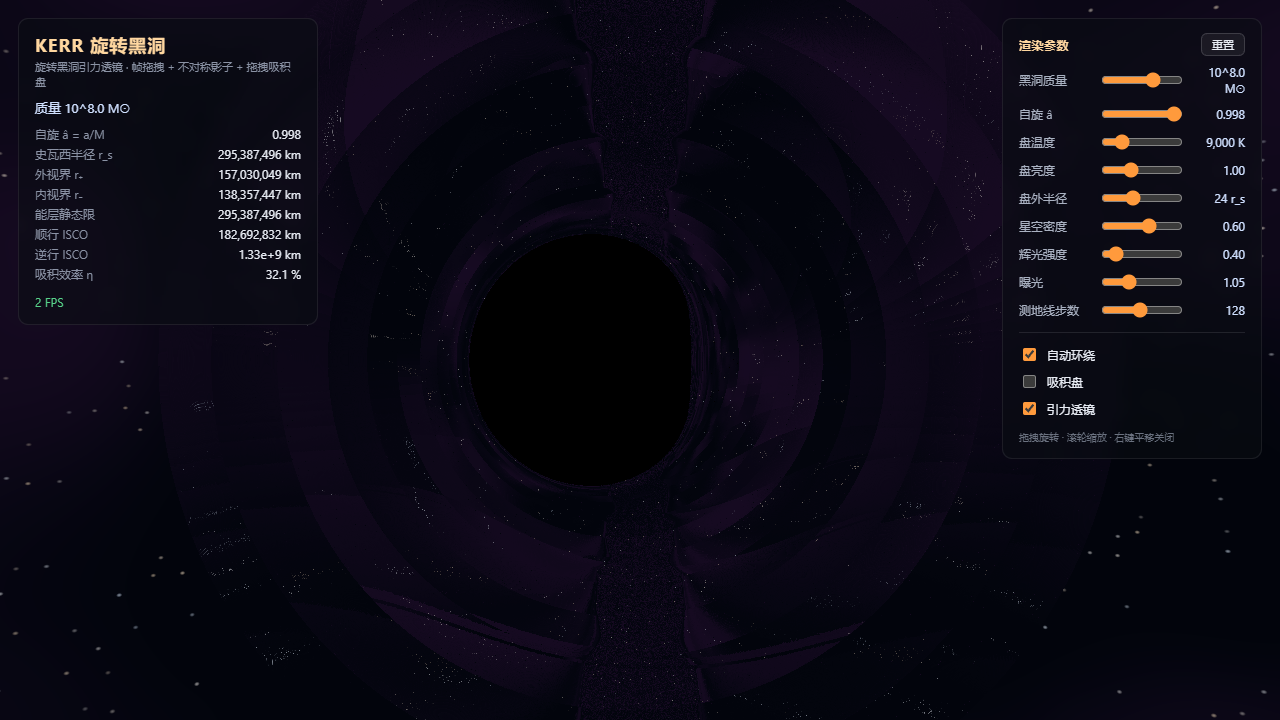
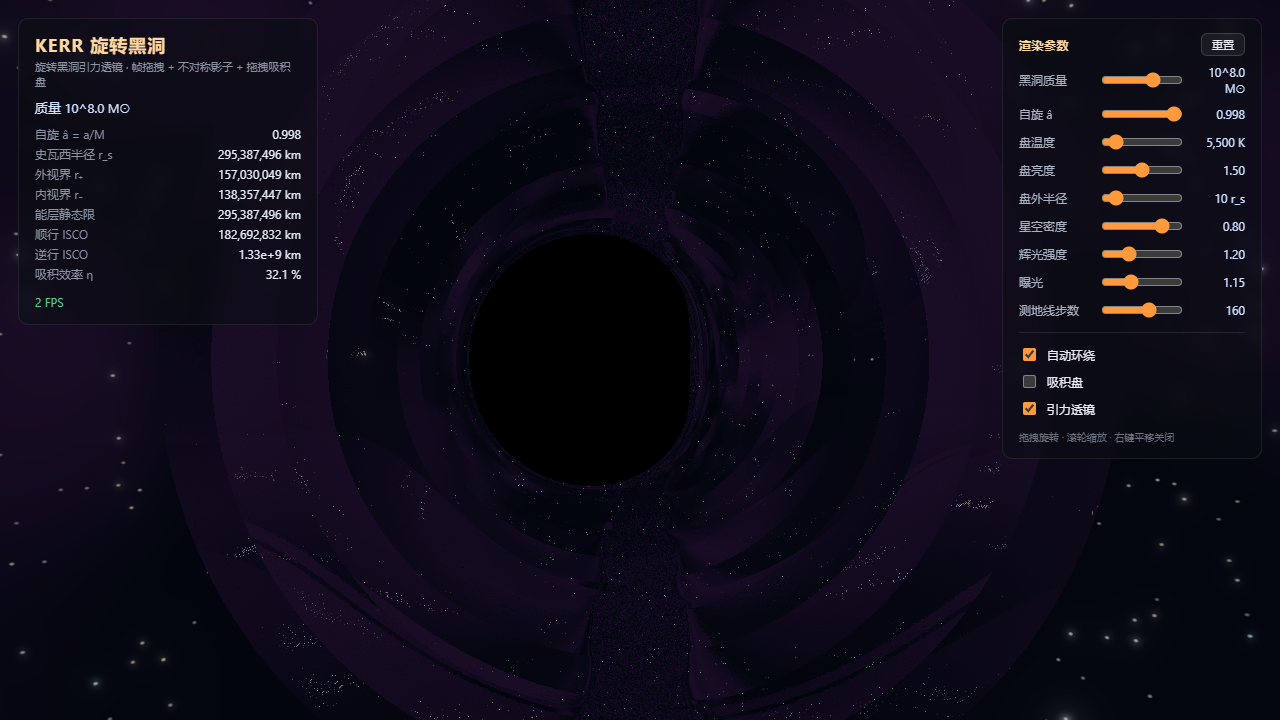
feat(11_blackhole): iconic Gargantua look — hot inner edge + near-edge-on camera
- Tanner-Helland blackbody fit (1000-40000 K): deep red -> warm white -> blue-white, no cyan artifact (GLSL + CPU mirror)
- Drop zero-torque inner-edge cutoff so the ISCO is hottest/brightest (white-hot inner -> red outer)
- Near-edge-on camera (tilt 0.05 rad), spin default 0.9, diskTempK 5500, diskOuter 10
- Stronger bloom (radius 0.55, threshold 0.1) for the glowing photon ring
- Photon-shell winding cap 8 -> 32 for sharper photon rings
- Add scripts/render-image.mjs + 4K showcase render

diff --git a/11_blackhole/src/engine/shaders/blackhole.ts b/11_blackhole/src/engine/shaders/blackhole.ts
@@ -83,17 +83,17 @@ float vnoise(vec3 p) {
 // Blackbody
 // ---------------------------------------------------------------------------
 
-float temp01(float kelvin) {
-  float lo = 1500.0, hi = 40000.0;
-  float t = clamp(kelvin, lo, hi);
-  return clamp((log(t) - log(lo)) / (log(hi) - log(lo)), 0.0, 1.0);
-}
+// Tanner–Helland blackbody fit: kelvin -> sRGB (0..1) over 1000..40000 K.
+// 1000 K deep red → 5500 K warm white → 10000 K blue-white (no cyan artifact).
 vec3 blackbody(float kelvin) {
-  float t = temp01(kelvin);
-  float r = t < 0.66 ? 1.0 : 1.0 - (t - 0.66) / 0.34;
-  float g = t < 0.25 ? 0.2 + (0.8 * t) / 0.25 : 1.0;
-  float b = t < 0.25 ? 0.0 : (t - 0.25) / 0.75;
-  return clamp(vec3(r, g, b), 0.0, 1.0);
+  float t = clamp(kelvin, 1000.0, 40000.0) / 100.0;
+  float r = t <= 66.0 ? 255.0 : 329.698727446 * pow(t - 60.0, -0.1332047592);
+  float g = t <= 66.0
+    ? 99.4708025861 * log(t) - 161.1195681661
+    : 288.1221695283 * pow(t - 60.0, -0.0755148492);
+  float b = t >= 66.0 ? 255.0
+    : (t <= 19.0 ? 0.0 : 138.5177312231 * log(t - 10.0) - 305.0447927307);
+  return clamp(vec3(r, g, b) / 255.0, 0.0, 1.0);
 }
 
 // ---------------------------------------------------------------------------
@@ -286,10 +286,11 @@ vec3 sampleDiskKerr(float rc, float lam, float a, float isco) {
   g = clamp(g, 0.05, 3.0);
 
   float x = isco / rc;
-  float sfact = max(1.0 - sqrt(x), 0.0);
-  float em = x * x * x * sfact;
-  float Tp = pow(x, 0.75) * pow(sfact, 0.25);
-  float T = uDiskTempK * Tp * g;
+  // No zero-torque (1−√x) factor: the inner edge is the hottest AND brightest,
+  // feeding the photon ring (Gargantua's blazing inner rim, not a black hole).
+  float em = x * x * x;
+  float Tp = pow(x, 0.75);
+  float T = uDiskTempK * Tp * g; // Doppler-shifted temperature T_obs = g·T
   vec3 col = blackbody(T);
   return col * (uDiskBrightness * em * pow(g, 3.0));
 }
@@ -361,12 +362,12 @@ void main() {
         float rc = prevR + (nr - prevR) * tt;
         if (rc > isco && rc < uDiskOuter) {
           emitc += trans * sampleDiskKerr(rc, lam, a, isco);
-          trans *= 0.5;
+          trans *= 0.1; // ~90% opaque disk: strong lensed far-side wrap
         }
       }
 
       r = nr; u = nu; phi = np;
-      if (winds > 8) { captured = true; break; }
+      if (winds > 32) { captured = true; break; }
     }
 
     if (!captured && !escaped && r < rp + 1.0) captured = true;

diff --git a/11_blackhole/src/core/constants.ts b/11_blackhole/src/core/constants.ts
@@ -21,7 +21,7 @@ export const B_CRIT = (3 * Math.sqrt(3)) / 2
 export const SHADOW_R = B_CRIT
 
 /** Default outer disk radius (bhu). */
-export const DISK_OUTER_DEFAULT = 24
+export const DISK_OUTER_DEFAULT = 10
 
 // ---------------------------------------------------------------------------
 // Kerr geometry (rotating). In bhu the black-hole mass is M = 1/2 (since
@@ -31,7 +31,7 @@ export const DISK_OUTER_DEFAULT = 24
 /** Black hole mass in bhu (r_s = 2M = 1). */
 export const M_BHU = 0.5
 /** Default dimensionless spin â = a/M (0 = Schwarzschild). */
-export const SPIN_DEFAULT = 0
+export const SPIN_DEFAULT = 0.9
 /** Max dimensionless spin (capped below extremal for numerical safety). */
 export const SPIN_MAX = 0.998
 
@@ -57,13 +57,13 @@ export const RS_PER_MSUN_KM = RS_PER_MSUN_M / 1000
 export const DEFAULT_PARAMS: RenderParams = {
   massMsun: 1e8, // Gargantua-scale (readout only)
   spin: SPIN_DEFAULT,
-  diskTempK: 9000,
-  diskBrightness: 1.0,
+  diskTempK: 5500,
+  diskBrightness: 1.5,
   diskOuter: DISK_OUTER_DEFAULT,
-  starDensity: 0.6,
-  bloomStrength: 0.4,
-  exposure: 1.05,
-  steps: 128,
+  starDensity: 0.8,
+  bloomStrength: 1.2,
+  exposure: 1.15,
+  steps: 160,
   autoOrbit: true,
   showDisk: true,
   lensing: true,
@@ -71,8 +71,8 @@ export const DEFAULT_PARAMS: RenderParams = {
 
 /** Camera defaults: orbit radius (bhu) and elevation above the disk plane (rad). */
 export const CAMERA_DISTANCE_DEFAULT = 14
-export const CAMERA_TILT_DEFAULT = 0.16 // ~9° above the disk plane (edge-on-ish: shadow pokes above the disk band)
-export const CAMERA_POLAR_MIN = 0.06
+export const CAMERA_TILT_DEFAULT = 0.05 // ~2.9° above the disk plane (near-edge-on: iconic lensed ring)
+export const CAMERA_POLAR_MIN = 0.02
 export const CAMERA_POLAR_MAX = Math.PI - 0.06
 export const CAMERA_DISTANCE_MIN = 4.5
 export const CAMERA_DISTANCE_MAX = 40

diff --git a/11_blackhole/src/core/physics/blackbody.ts b/11_blackhole/src/core/physics/blackbody.ts
@@ -1,32 +1,26 @@
 /**
- * Blackbody temperature -> linear RGB (CPU reference; mirrors the GLSL
- * `blackbody()` function). Uses a Tanner-Helland-style fit over the
- * [1500 K, 40000 K] range so the disk reads white-hot inner -> warm outer.
+ * Blackbody temperature -> sRGB (0..1) via the Tanner–Helland fit, mirroring
+ * the GLSL `blackbody()` in shaders/blackhole.ts. Range [1000 K, 40000 K]:
+ * 1000 K deep red → 5500 K warm white → 10000 K blue-white (no cyan artifact).
  */
 
-/** Normalise a kelvin temperature to a 0..1 curve coordinate. */
-export function temp01(kelvin: number): number {
-  const lo = 1500
-  const hi = 40000
-  const t = Math.min(Math.max(kelvin, lo), hi)
-  const v = (Math.log(t) - Math.log(lo)) / (Math.log(hi) - Math.log(lo))
+function clamp01(v: number): number {
   return Math.min(Math.max(v, 0), 1)
 }
 
-/** Temperature (kelvin) -> linear RGB (approx blackbody, may exceed 1 in HDR use). */
+/** Temperature (kelvin) -> sRGB (0..1) approximating a blackbody spectrum. */
 export function blackbody(kelvin: number): { r: number; g: number; b: number } {
-  const t = temp01(kelvin)
+  const t = Math.min(Math.max(kelvin, 1000), 40000) / 100
+
   let r: number
   let g: number
   let b: number
 
-  r = t < 0.66 ? 1.0 : 1.0 - (t - 0.66) / 0.34
-  g = t < 0.25 ? 0.2 + (0.8 * t) / 0.25 : 1.0
-  b = t < 0.25 ? 0.0 : (t - 0.25) / 0.75
+  r = t <= 66 ? 255 : 329.698727446 * Math.pow(t - 60, -0.1332047592)
 
-  return {
-    r: Math.min(Math.max(r, 0), 1),
-    g: Math.min(Math.max(g, 0), 1),
-    b: Math.min(Math.max(b, 0), 1),
-  }
+  g = t <= 66 ? 99.4708025861 * Math.log(t) - 161.1195681661 : 288.1221695283 * Math.pow(t - 60, -0.0755148492)
+
+  b = t >= 66 ? 255 : t <= 19 ? 0 : 138.5177312231 * Math.log(t - 10) - 305.0447927307
+
+  return { r: clamp01(r / 255), g: clamp01(g / 255), b: clamp01(b / 255) }
 }

diff --git a/11_blackhole/src/core/physics/kerr.ts b/11_blackhole/src/core/physics/kerr.ts
@@ -75,16 +75,16 @@ export function kerrRedshift(r: number, lam: number, a: number): number {
   return Math.min(Math.max(g, 0.05), 3)
 }
 
-/** Shakura–Sunyaev disk emissivity (zero-torque inner edge). */
+/** Shakura–Sunyaev disk emissivity (inner edge hottest/brightest; no zero-torque cutoff). */
 export function kerrDiskEmissivity(r: number, isco: number): number {
   const x = isco / r
-  return x * x * x * (1 - Math.sqrt(x))
+  return x * x * x
 }
 
-/** Shakura–Sunyaev disk temperature profile (normalized to 1 at peak). */
+/** Shakura–Sunyaev disk temperature profile (normalized to 1 at inner edge). */
 export function kerrDiskTemperature(r: number, isco: number): number {
   const x = isco / r
-  return Math.pow(x, 0.75) * Math.pow(Math.max(1 - Math.sqrt(x), 0), 0.25)
+  return Math.pow(x, 0.75)
 }
 
 // ---------------------------------------------------------------------------
@@ -375,7 +375,7 @@ export function kerrTracePhoton(
     s.u = u1
     s.phi = next.phi
 
-    if (winds > 8) {
+    if (winds > 32) {
       // Near-critical orbit (winding on the photon shell): treat as captured.
       fate = 'captured'
       break

diff --git a/11_blackhole/src/engine/SceneManager.ts b/11_blackhole/src/engine/SceneManager.ts
@@ -116,7 +116,7 @@ export class SceneManager {
       new THREE.WebGLRenderTarget(w, h, { type: THREE.HalfFloatType }),
     )
     this.composer.addPass(new RenderPass(scene, this.camera))
-    this.bloom = new UnrealBloomPass(new THREE.Vector2(w, h), DEFAULT_PARAMS.bloomStrength, 0.25, 0.4)
+    this.bloom = new UnrealBloomPass(new THREE.Vector2(w, h), DEFAULT_PARAMS.bloomStrength, 0.55, 0.1)
     this.composer.addPass(this.bloom)
     this.composer.addPass(new OutputPass())
 
